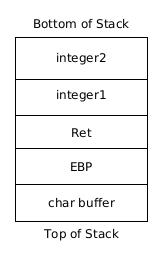
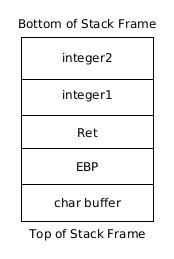
Edited the content of 2-1-entry.html

diff --git a/exploitdev/2-1-entry.html b/exploitdev/2-1-entry.html
@@ -112,7 +112,7 @@
                                         <li>.text - read-only data which holds the programs instructions. The data is read-only as none of the program instructions needs to be altered during execution.</li>
                                         <li>.bss - holds static uninitialised data, aka static variables that initially have no value. This section is writeable. </li>
                                         <li>.data - holds static initialised data. This section is writeable. </li>
-                                    </ul>
+                                    </ul><br>
 
                                     <p>Finally, the Stack and the Heap are initialised</p>
                                     <p>The Stack is Last In First Out (LIFO) data structure. This means that the most recent item put, or pushed, on the Stack is the next item to be removed, or popped, from the Stack. The Stack grows downward; data is added to the Stack as lower addresses. The Stack stores local variables, functions (including the corresponding local variables) and other data used to ‘clean up’ the stack after a function has executed. We will go over the Stack in more detail later. </p>
@@ -133,7 +133,7 @@
                                         </code>
                                         
                                     </div>
-                                    <p>This sequence of commands will put the value 1 onto the top of the Stack. Then the value on the top of the stack, in this case 1 is copied into EAX. A subtlety to note is the data is not moved from its previous memory. It is still there in memory, but the program no longer considers this portion of the memory part of Stack. To appreciate this we need to understand what the ESP <b>register</b> does. </p>
+                                    <p>This sequence of commands will put the value 1 onto the top of the Stack. Then the value on the top of the stack, in this case 1, is copied into EAX. A subtlety to note is the data is not moved from its previous memory. It is still there in memory, but the program no longer considers this portion of the memory part of Stack. To appreciate this we need to understand what the ESP <b>register</b> does. </p>
                                     <p>The Extended Stack Pointer points to the memory location on the top of the Stack. Let us see how this works for our example.</p>
 
                                     <img src="./images/stack_push.jpg" style="display:block; margin-right: auto; margin-left: auto;">
@@ -152,15 +152,20 @@
                                     <p>This is best understood by looking at an example. In this example, we call a simple function called function, which has the parameters integer1 and integer2. </p>
 
                                     <img src="./images/stack_frame_example.png" style="display:block; margin-right: auto; margin-left: auto;">
-                                    <p style="font-size: 15px; text-align: center;">A simple function with one function call.</p>
+                                    <p style="font-size: 15px; text-align: center;">A simple program with one function call.</p>
 
                                     <p>Firstly the parameters integer1 and integer2 are pushed onto the Stack (they are written in backward). Once the parameters are on the Stack the return address (RET) is pushed onto the Stack. RET is the value stored in the <b>EIP</b> register when the function is called. In this case, the address of the first printf statement will be pushed onto the Stack.</p>
                                     <p>Before the function can be executed, the prolog is executed. The value of <b>EBP</b> is pushed onto the Stack as the EBP register must be used by the function to reference values in its Stack frame. Once the function has completed, we will need the current value of EBP to reference values in main(). 
 </p>
-                                    <p>The final thing for the prolog to do is to calculate and assign space on the Stack for all the function's local variables. In this case that's the array, we declare called buffer. This is what the Stack looks like now.</p>
+                                    <p>The final thing for the prolog to do is to calculate and assign space on the Stack for all the function's local variables. In this case that's the array, we declare called buffer. This is what the Stack frame looks like now. </p>
 
                                     <img src="./images/stack_frame.jpg" style="display:block; margin-right: auto; margin-left: auto;">
-                                    <p style="font-size: 15px; text-align: center;">The function's frame has been written onto the Stack. The program is now ready to execute the function.</p>
+                                    <p style="font-size: 15px; text-align: center;">The function's Stack frame has been written onto the Stack. The program is now ready to execute the function.</p>
+
+                                    <p>After the function's Stack frame has been written onto the Stack the function is ready to be executed. </p>
+
+                                    <img src="./images/stack_layout.jpg" style="display:block; margin-right: auto; margin-left: auto;">
+                                    <p style="font-size: 15px; text-align: center;">The Stack now looks like this with the function's Stack frame loaded at the bottom of the Stack.</p>
 
                                     <h2> Overflowing Buffers on the Stack</h2>
 
@@ -173,16 +178,16 @@
                                     <img src="./images/stack_overflow_program.png" style="display:block; margin-right: auto; margin-left: auto;">
                                     <p style="font-size: 15px; text-align: center;">This program has a buffer overflow bug as we shall soon see. </p>
 
-                                    <p>This program takes input from standard input (in this case a commandline argument). The program calls the function check_password. This function declares several variables including a character array called pass_buffer which has a length of 10 characters. The function then copies the user input specified from the commandline into the pass_buffer variable. The function then compares the value of pass_buffer and actual_pass ("hacker") and returns 1 if they match. The program then logs you in if the function returns 1 (the user input matches the actual password). Let's see this in action. Firstly we compile the C program, disabling stack protections!</p>
+                                    <p>This program takes input from standard input (in this case a commandline argument). The program calls the function check_password. This function declares several variables including a character array called pass_buffer which has a length of 10 characters. The function then copies the user input specified from the commandline into the pass_buffer variable. The function then compares the value of pass_buffer and actual_pass ("hacker") and returns 1 if they match. The program then logs you in if the function a value which is not 0 (the user input matches the actual password). Let's see this in action. Firstly we compile the C program, disabling stack protections!</p>
 
                                     <pre>gcc -g -o login login.c -fno-stack-protector</pre>
+
+                                    <p>The problem is that when the user input is copied into buffer pass_buffer there are no checks to ensure that the user input can fit into the pass_buffer. The program should check that the length of the user input is less than or equal 10. But no such checks are made. This means that we should be able to write outside the memory allocated to the pass_buffer array. Let's see what happens when we specify a password of length 10 and then length 11. </p>
 
                                     <img src="./images/2-1-first_buffer_overflow.png" style="display:block; margin-right: auto; margin-left: auto;">
                                     <p style="font-size: 15px; text-align: center;">We've caused a buffer overflow in our program and managed to login without a valid password.</p>
 
-                                    <p>The problem is that when the user input is copied into buffer pass_buffer there are no checks to ensure that the user input can fit into the pass_buffer. The program should check that the length of the user input is less than or equal 10. But no such checks are made. This means that we should be able to write outside the memory allocated to the pass_buffer array. Let's see what happens when we specify a password of length 10 and then length 11. </p>
-
-                                    <p>As we can see when the password is larger than the buffer it's being copied to we are logged in by the program. Let's see what's happening here. </p>
+                                    <p>As we can see when the password is larger than the buffer it's being copied to we are logged in by the program. Let's see what's happening here. We will debug the program using a commandline debugger called gdb. </p>
 
                                     <pre>debug@lbuntu:~/Documents/exploitdev/chapter2/stack$ gdb -q ./login
 Reading symbols from ./login...done.
@@ -206,7 +211,7 @@ Breakpoint 1, check_password (userpass=0xbffff749 'A' <repeats 11 times>)
 10 strcpy(pass_buffer, userpass);
 (gdb) x/32xw $esp
 0xbffff4e0: 0x00000009  0xbffff713  0x6b636168  0x00007265
-0xbffff4f0: 0xb7fb0000  0xb7fba000  0x00000000  0x00000000 (*)
+0xbffff4f0: 0xb7fb0000  0xb7fba000  0x00000000  <b>0x00000000 (*)</b>
 0xbffff500: 0xb7fba3fc  0x00401fc8  0xbffff528  0x00400696
 0xbffff510: 0xbffff749  0xbffff5d4  0xbffff5e0  0x00400656
 0xbffff520: 0xbffff540  0x00000000  0x00000000  0xb7dfae91
@@ -215,15 +220,16 @@ Breakpoint 1, check_password (userpass=0xbffff749 'A' <repeats 11 times>)
 0xbffff550: 0x00000002  0xbffff5d4  0xb7fba000  0xb7fe778a
 (gdb) </pre>
 
-                                    <p>We encounter our first breakpoint, before our input is copied to the Stack. Examining the contents of memory after the ESP pointer we see that our user input has not yet been written onto the Stack. If it had we would see the \x41 hexadecimal character repeated several times. This is the ASCII value of ‘A’. We can confirm our hunch by viewing the contents of pass_buffer, which will just be random data. We will also see what the auth variable is. It should be zero based on the C program logic. We can see the value of auth on the Stack at (*). </p>
+                                    <p>We encounter our first breakpoint, before our input is copied to the Stack. Examining the contents of memory after the ESP pointer we see that our user input has not yet been written onto the Stack. If it had we would see the \x41 hexadecimal character repeated eleven times. This is the ASCII value of ‘A’. We can confirm our hunch by viewing the contents of pass_buffer, which will just be random data. We will also see what the auth variable is. It should be zero based on the C program logic. We can see the value of auth on the Stack at (*). </p>
 
                                     <pre>(gdb) x/s pass_buffer
-0xbffff4f2: <incomplete sequence \373\267>
+0xbffff4f2: incomplete sequence \373\267
 (gdb) x/x &auth
 0xbffff4fc: 0x00
 </pre>
-
-                                    <p>Continuing the execute of the program brings us to our next breakpoint just as the function returns to main. Examining memory, </p>
+                                    <p> As expected the pass_buffer contains unitalised data as we have not yet copied our user input to this buffer. The auth variable has a value of zero, which was set at the start of the function.</p> 
+                                    
+                                    <p>Continuing the execute of the program brings us to our next breakpoint just as the function returns to main. Examining the function's Stack frame once more. </p>
 
                                     <pre>(gdb) continue
 Continuing.
@@ -233,7 +239,7 @@ Breakpoint 2, check_password (userpass=0xbffff749 'A' <repeats 11 times>)
 16 return auth;
 (gdb) x/32xw $esp
 0xbffff4e0: 0x00000009  0xbffff713  0x6b636168  0x00007265
-0xbffff4f0: 0x41410000  0x41414141  0x41414141  0x00000041 (**)
+0xbffff4f0: <b>0x41410000  0x41414141  0x41414141</b>  0x000000<b>41 (**)</b>
 0xbffff500: 0xb7fba3fc  0x00401fc8  0xbffff528  0x00400696
 0xbffff510: 0xbffff749  0xbffff5d4  0xbffff5e0  0x00400656
 0xbffff520: 0xbffff540  0x00000000  0x00000000  0xb7dfae91
@@ -241,15 +247,15 @@ Breakpoint 2, check_password (userpass=0xbffff749 'A' <repeats 11 times>)
 0xbffff540: 0x00000002  0xbffff5d4  0xbffff5e0  0xbffff564
 0xbffff550: 0x00000002  0xbffff5d4  0xb7fba000  0xb7fe778a</pre>
 
-                                    <p>We indeed see that our buffer of A's has been written into the Stack from 0xbffff4f2 to 0xbffff4fC. We can indeed see that 11 characters have been written onto the Stack despite the fact that only 10 bytes were allocated by the program for the pass_buffer array. Indeed we can view the contents of both pass_buffer and auth. </p>
+                                    <p>We indeed see that our buffer of A's has been written into the Stack from 0xbffff4f2 to 0xbffff4fC (highlighted in bold). 11 characters have been written onto the Stack despite the fact that only 10 bytes were allocated by the program for the pass_buffer array. Let's view the contents of both pass_buffer and auth. </p>
 
                                     <pre>(gdb) x/s pass_buffer
-0xbffff4f2: 'A' repeats 11 times
+0xbffff4f2: <b>'A' repeats 11 times</b>
 (gdb) x/x &auth
-0xbffff4fc: 0x41
+0xbffff4fc: <b>0x41</b>
 (gdb)</pre>
 
-                                    <p>pass_buffer is 11 characters long. We have successfully overflowed the buffer and written to other parts of the Stack frame. But where did we write exactly? Strangely the auth variable has a value of \x41 or 65 in decimal. This is odd since in the C code the value is only ever set to 0 or 1. It is, in fact, \x41 as we overwrote the memory allocated to the auth variable when we overflowed the pass_buffer buffer. The 11th byte of our input with value \x41 replaced the first byte of the 4 bytes allocated to auth. We can see this on the Stack at (**). This means we effectively wrote the pass_buffer value to “AAAAAAAAAAA” (Ax11) and auth to “A” (note that the pass_buffer character array does not terminate at 10 as arrays terminate when they encounter a null byte \x00).</p>
+                                    <p>pass_buffer is 11 characters long. We have successfully overflowed the buffer (of length 10) and overwritten  other parts of the Stack frame. But where did we write exactly? Strangely the auth variable has a value of \x41 or 65 in decimal. This is odd since in the C code the auth is only ever set to 0 or 1. It is, in fact, \x41 as we overwrote the memory allocated to the auth variable when we overflowed the pass_buffer buffer. The 11th byte of our input with value \x41 replaced the first byte of the 4 bytes allocated to auth. We can see this on the Stack at (**). This means we effectively wrote the pass_buffer value to “AAAAAAAAAAA” (Ax11) and auth to 65 (\x41 in hexadecimal). (Note that the pass_buffer character array does not terminate after 10 bytes as arrays terminate when they encounter a null byte \x00).</p>
 
                                     <p>This means the function will return a value of 65 to main. Since the main function will log us in if the returned value is not zero we are logged into the program.</p>
 
